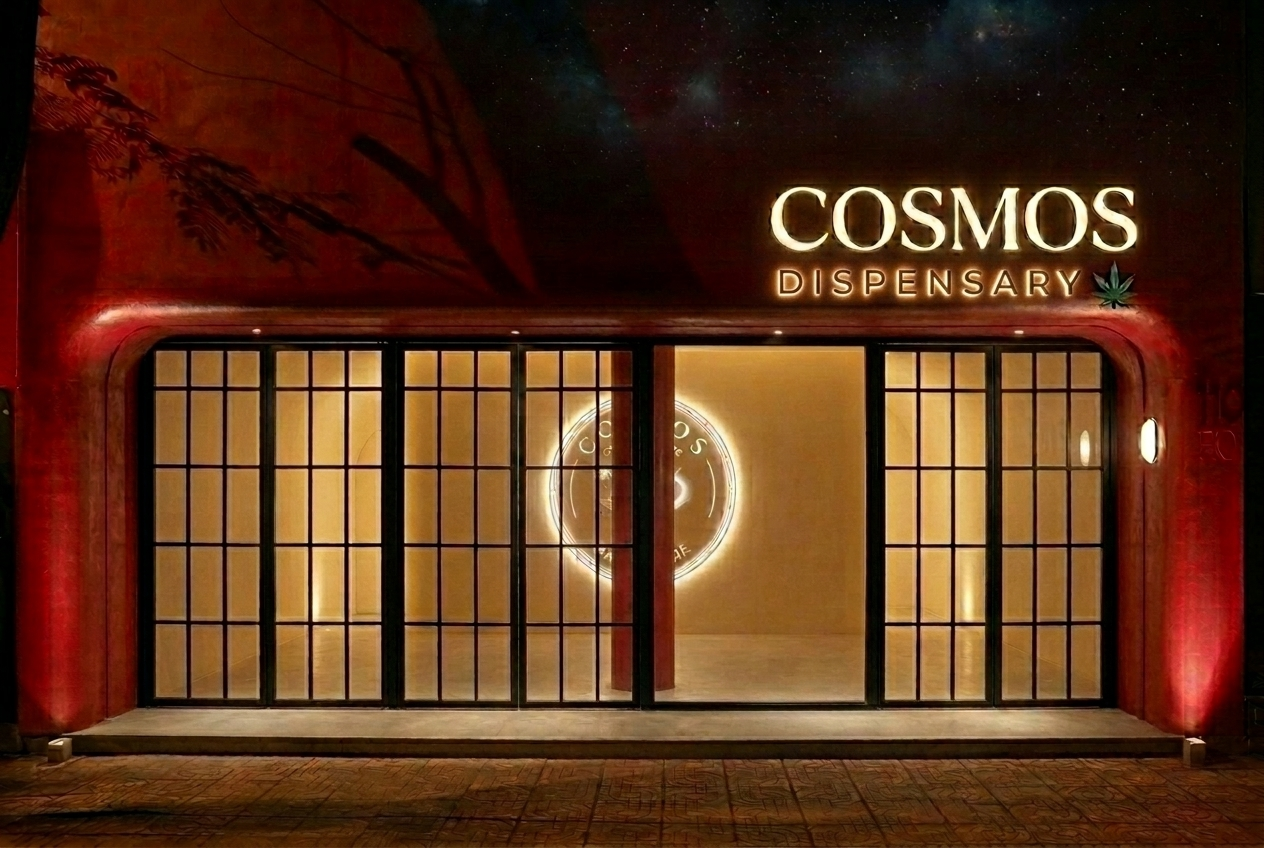
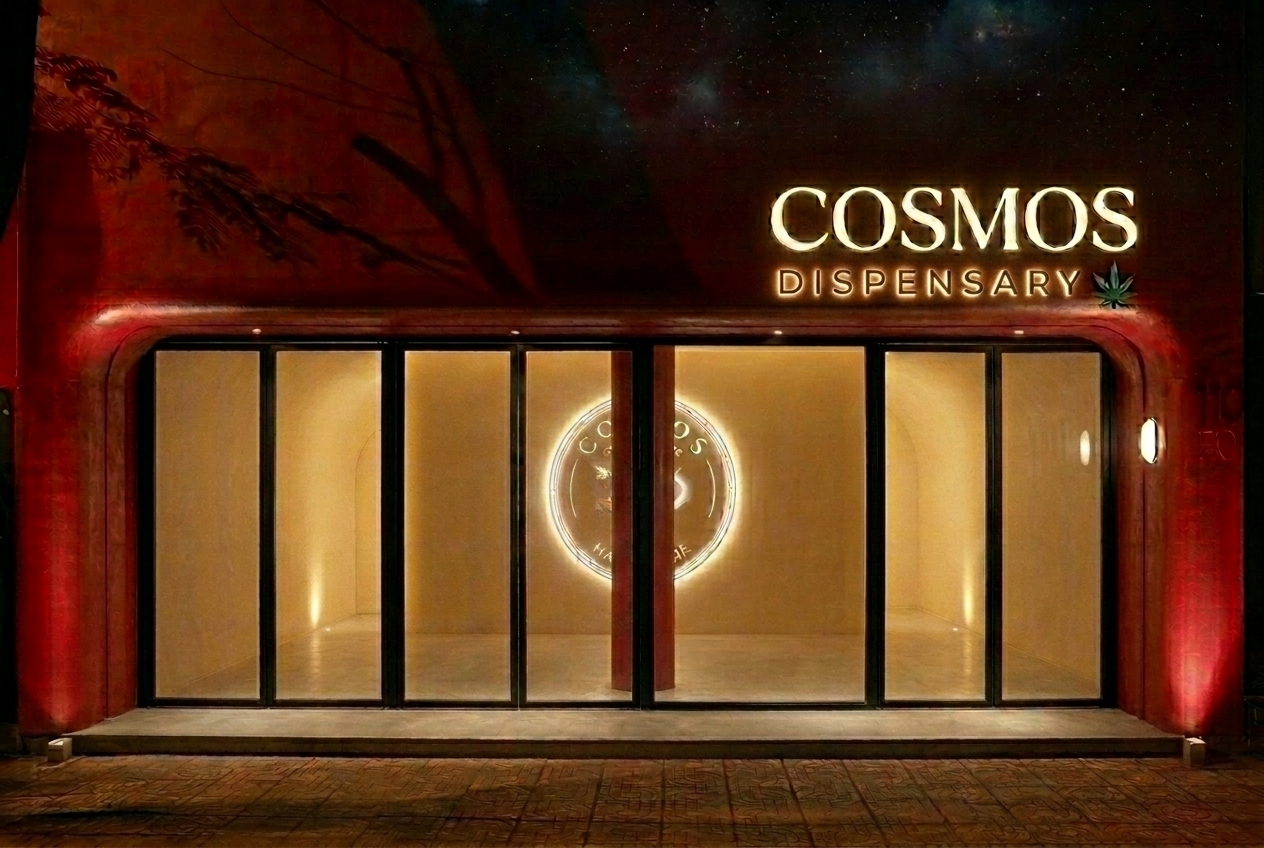
auto-commit for 87c4aaf6-6bbc-40b4-827c-f419d37fe516

Changed region(s): [[0.1234, 0.3986, 0.4937, 0.8278], [0.7097, 0.3986, 0.8639, 0.8278]]

diff --git a/frontend/src/pages/Home.js b/frontend/src/pages/Home.js
@@ -348,7 +348,15 @@ export default function Home() {
             <div className="space-y-6 max-w-md">
               <div className="border-t border-white/10 pt-5">
                 <div className="label text-white/40 mb-2">Address</div>
-                <p className="text-lg">3104, 6th &apos;B&apos; Main, HAL II Stage, Indiranagar, Bangalore 560008</p>
+                <a
+                  href="https://www.google.com/maps/search/?api=1&query=3104%2C+6th+B+Main%2C+HAL+II+Stage%2C+Indiranagar%2C+Bangalore+560008"
+                  target="_blank"
+                  rel="noopener noreferrer"
+                  data-testid="location-address-link"
+                  className="text-lg block transition-colors hover:text-[#FF2A2A]"
+                >
+                  3104, 6th &apos;B&apos; Main, HAL II Stage, Indiranagar, Bangalore 560008
+                </a>
               </div>
               <div className="border-t border-white/10 pt-5">
                 <div className="label text-white/40 mb-2">Hours</div>
@@ -356,17 +364,34 @@ export default function Home() {
               </div>
               <div className="border-t border-white/10 pt-5">
                 <div className="label text-white/40 mb-2">Contact</div>
-                <p className="text-lg">info@cosmoscannabis.in · +91 90369 47840</p>
+                <p className="text-lg">
+                  <a
+                    href="mailto:info@cosmoscannabis.in"
+                    data-testid="location-email-link"
+                    className="transition-colors hover:text-[#FF2A2A]"
+                  >
+                    info@cosmoscannabis.in
+                  </a>
+                  <span className="text-white/40"> · </span>
+                  <a
+                    href="tel:+919036947840"
+                    data-testid="location-phone-link"
+                    className="transition-colors hover:text-[#FF2A2A]"
+                  >
+                    +91 90369 47840
+                  </a>
+                </p>
               </div>
             </div>
           </div>
           <div className="md:col-span-6 order-1 md:order-2">
-            <div className="overflow-hidden aspect-[16/10]" data-testid="store-exterior">
+            <div className="group relative overflow-hidden aspect-[16/10] rounded-sm ring-1 ring-white/5 transition-all duration-700 hover:ring-[#FF2A2A]/40 hover:shadow-[0_0_60px_-10px_rgba(255,42,42,0.55)]" data-testid="store-exterior">
               <img
                 src="/brand-assets/store/storefront.jpg"
                 alt="Cosmos Cannabis Cure storefront exterior"
-                className="w-full h-full object-cover"
+                className="w-full h-full object-cover transition-transform duration-[1200ms] ease-out group-hover:scale-105"
               />
+              <div className="pointer-events-none absolute inset-0 opacity-0 transition-opacity duration-700 group-hover:opacity-100 bg-[radial-gradient(circle_at_50%_45%,rgba(255,190,120,0.28),transparent_45%)]" />
             </div>
           </div>
         </div>

diff --git a/memory/PRD.md b/memory/PRD.md
@@ -90,3 +90,7 @@ admin@cosmoscure.in / Cosmos@2026 (also in /app/memory/test_credentials.md)
 
 ## Update (2026-07) — Storefront Facade Image
 - Replaced homepage "Visit us in Bangalore" storefront image (/brand-assets/store/storefront.jpg) with a new AI-generated facade based on user's OKKIO reference: kept deep-red organic architecture + capsule-arched windows, replaced OKKIO signage with clean premium "COSMOS" sign + green cannabis-leaf accent, removed central red column, cinematic cosmos night ambiance. Old asset backed up as storefront-okkio-backup.jpg. Verified via screenshot.
+
+## Update (2026-07) — Location Interactivity
+- Homepage Location section: address is now a Google Maps link, email a mailto: link, phone a tel: link (data-testids: location-address-link / location-email-link / location-phone-link).
+- Storefront image now has a hover effect: subtle zoom (scale-105) + warm radial glow around the COSMOS seal + red glow ring/shadow.
